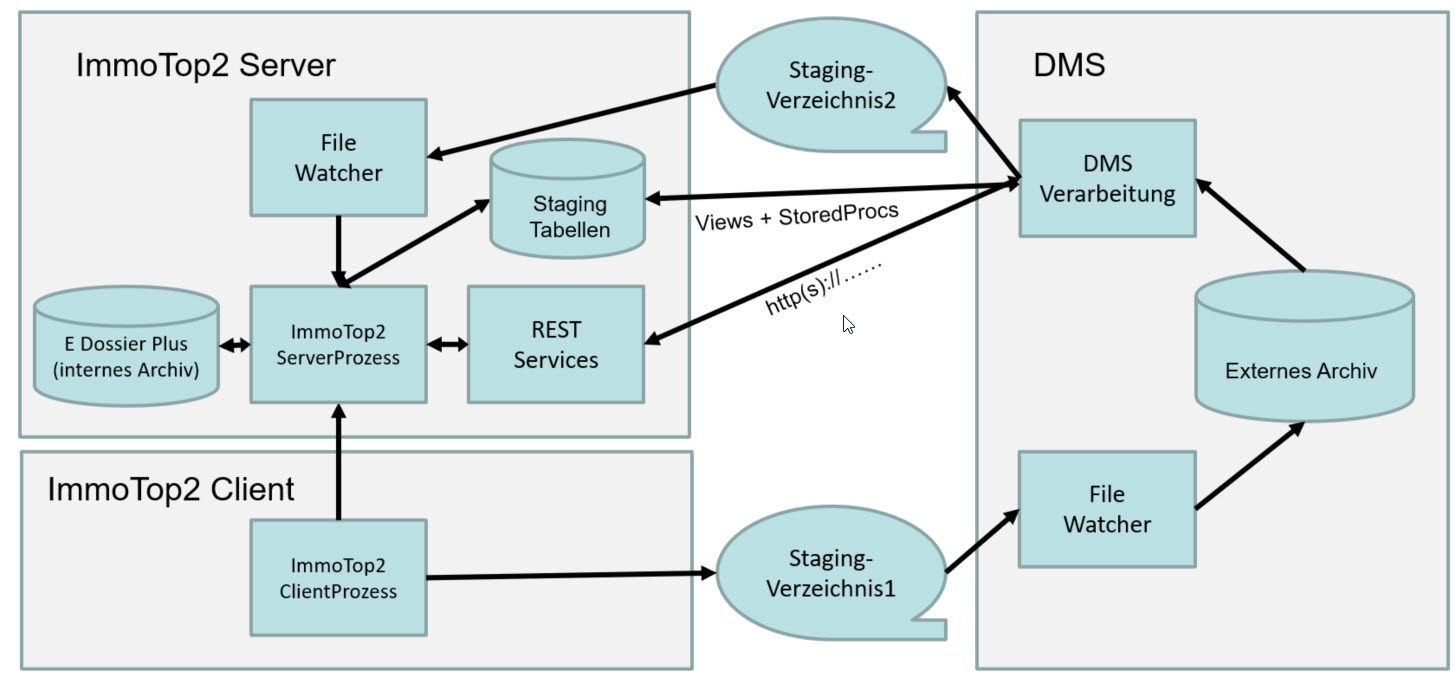
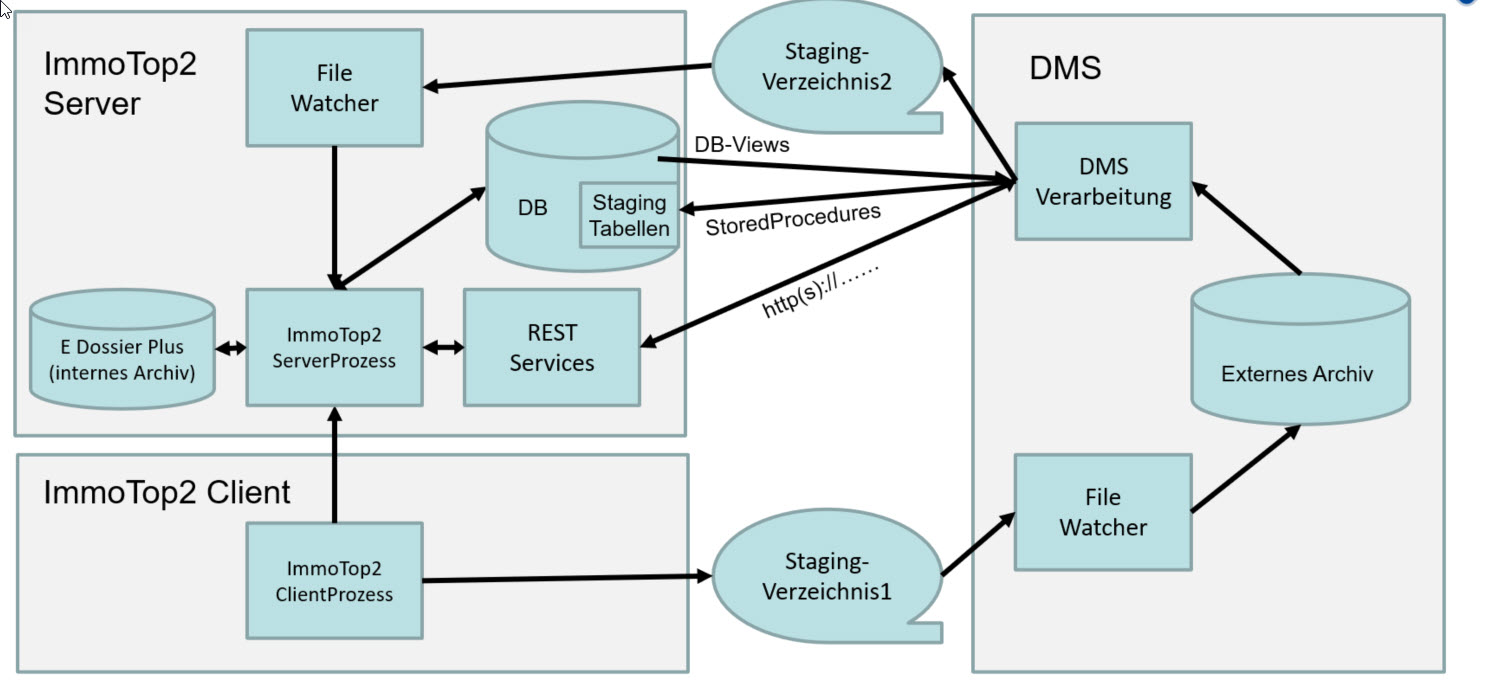
Aktueller Stand

Changed region(s): [[0.0, 0.0, 1.0, 0.9868], [0.0619, 0.4009, 0.1237, 0.4317], [0.5258, 0.9251, 0.5567, 0.9559]]

diff --git a/StagingVerzeichnisse.md b/StagingVerzeichnisse.md
@@ -35,7 +35,8 @@ Die Steuerdatei enthält Metadaten eines Dokuments und Anweisungen. Sie:
 | DateiName                | Text            | Sprechender Dateiname   |
 
 
-ReplaceDokument wird nicht implementiert, es wird DeleteDocument/NewDocument benutzt
+Möglicher Inhalt eines Stagingverzeichnisses:
+<img src="./_images/Stagingverzeichnis.png" alt="Möglicher Inhalt eines Stagingverzeichnisses" style="float:left; margin-right:10px;" />
 
 ### Beispiele für Steuerdateien
 
@@ -62,5 +63,65 @@ ReplaceDokument wird nicht implementiert, es wird DeleteDocument/NewDocument ben
 <DateiName>qrcode.bmp</DateiName>
 </ControlFile>
 ```
+
+# Use Cases
+## UseCase1: ImmoTop2 will ein Dokument ins DMS schreiben
+ImmoTop2 kennt Dokumentarten (Bilanz, Erfolgsrechnung, ....).
+Für jede Dokumentart ist individuell definiert, welche Indexwerte optiona/mandatory beim Speichern eines Dokumentes gesetzt werden müssen.
+Für jede Dokumentart kann der Benutzer konfigurieren, wo Dokumente einer bestimmten Dokumentart gespeichert werden (internes oder externes Archiv).
+Wenn für eine Dokumentart die Checkbox "Ablage DMS" aktiviert wurde, dann werden alle Dokumente dieser Dokumentart im externen Standardarchiv gespeichert.
+Es darf bei den DMS-Archiven genau eines der externen Archive als "Standardarchiv" konfiguriert sein.
+
+Ablauf:
+- ImmoTop2 schreibt einen Verweis-Datensatz ins interne Archiv, der die Adressdaten des extern gespeicherten Dokuments enthält
+- ImmoTop2 schreibt eine Steuerdatei mit Action "NewDocument" in den Stagingfolder1 und liefert dabei den Primärschlüssel des Dokuments (XML-Element "DocumentId")
+- Danach schreibt ImmoTop2 das Dokument in den Stagingfolder1
+- Das DMS erkennt die Steuerdatei und schreibt das Dokument ins Archiv
+- Das DMS löscht danach sowohl die Steuerdatei als auch das Dokument im Stagingfolder1
+- Nun liefert das DMS im StagingFolder2 eine Steuerdatei mit Action "SavedDocument"<br>Diese Steuerdatei enthält die ID des Dokumentes, die für das Löschen bzw. die Visualisierung eines Dokuments via DMS-Documentviewer benötigt wird 
+- ImmoTop2 verarbeitet diese Steuerdatei (aktualisiert den Verweis-Datensatz im internen Archiv) und löscht dann die Steuerdatei in StagingFolder2
+
+## UseCase2: Benutzer will Dokument sehen, das im DMS gespeichert ist
+ImmoTop2 sieht, dass das vom Benutzer angeforderte Dokument in einem externen Archiv espeichert ist und baut den URL für den DMS-Documentviewer anhand des für das Archiv hinterlegten URL.
+Die im URL hinterlegten Platzhalter «%DocId%» in «%ArchivId%» werden durch die effektiven DocId bzw ArchivId ersetzt.
+Danach wird der Standardbrowser gestartet und das Dokument über den DMS-DocumentViewer im Browser geöffnet.
+
+## UseCase3: ImmoTop2 will ein Dokument im DMS löschen
+Ein Benutzer hat sich entscheiden, ein Dokument zu löschen.
+ImmoTop2 sieht anhand der Konfigurationsdaten, dass das Dokument in einem externen Archiv gespeichert ist
+
+Ablauf:
+- ImmoTop2 schreibt eine Steuerdatei mit Action "DeleteDocument" in den Stagingfolder1
+- ImmoTop2 löscht den Verweis auf das Dokument in seiner Datenbank
+- Das DMS löscht das Dokument im Archiv
+- Das DMS löscht die Steuerdatei im Stagingfolder1
+
+
+## UseCase4: Das DMS liest die ImmoTop2-Indexwerte eines Dokumentes
+Wird benötigt, wenn, wenn das DMS neben der ImmoTop2-DocId zusätzlich auch noch die Indexwerte in numerischer und/oder in Textform benötigt (zB Name eines Mandanten). 
+Das Synchronisieren der Indexwerte muss im externen DMS periodisch ausgeführt werden, denn Indexwerte können in ImmoTop2 jederzeit geändert werden (zB Name einer Liegenschaft)
+
+ImmoTop2 liefert beim Schreiben eines Dokumentes den Primärschlüssel (XML-Element "DocumentId").
+Anhand dieses Primärschlüssels kann das DMS weitere Indexwerte eines Dokumentes anhand der View "v_DmsDokument" lesen.
+Sollten diese Indexwerte nicht alle gewünschten Daten enthalten, können mit weiteren Views zusätzliche Daten aus ImmoTop2 gelesen werden.
+
+So liefert zB die View v_DmsMandant den Namen, den Typ,… des Mandanten.
+<b>Für die meisten Views existieren als Alternative auch ImmoTop2-REST-Services</b>.
+
+
+## UseCase5: DMS schreibt Dokumente nach ImmoTop2 (noch nicht implementiert)
+Bemerkung: Dieser Usecase kann für Kreditorenbelege auch via Kreditoren-Workflow realisiert werden.
+
+Das DMS schreibt eine Steuerdatei in Stagingfolder2, das vom ImmoTop2-Server-Prozess überwacht wird.
+Weil ImmoTop2 der Master für die Indexwerte ist, müssen beim Import des Dokumentes die Indexwerte anhand der Regeln in ImmoTop2 korrekt gesetzt werden.
+Diese Indexierung muss deshalb manuell gemacht werden.
+
+<img src="./_images/UseCase5.png" alt="UseCase2" style="float:left; margin-right:10px;" />
+
+
+## UseCase6: DMS liest Dokumente aus ImmoTop2 (noch nicht implementiert)
+Das DMS will Dokumente lesen, die zwar im internen Archiv von ImmoTop2, aber nicht im DMS gespeichert sind.
+Dieser UseCase wird (noch) nicht benötigt. 
+
 
 
